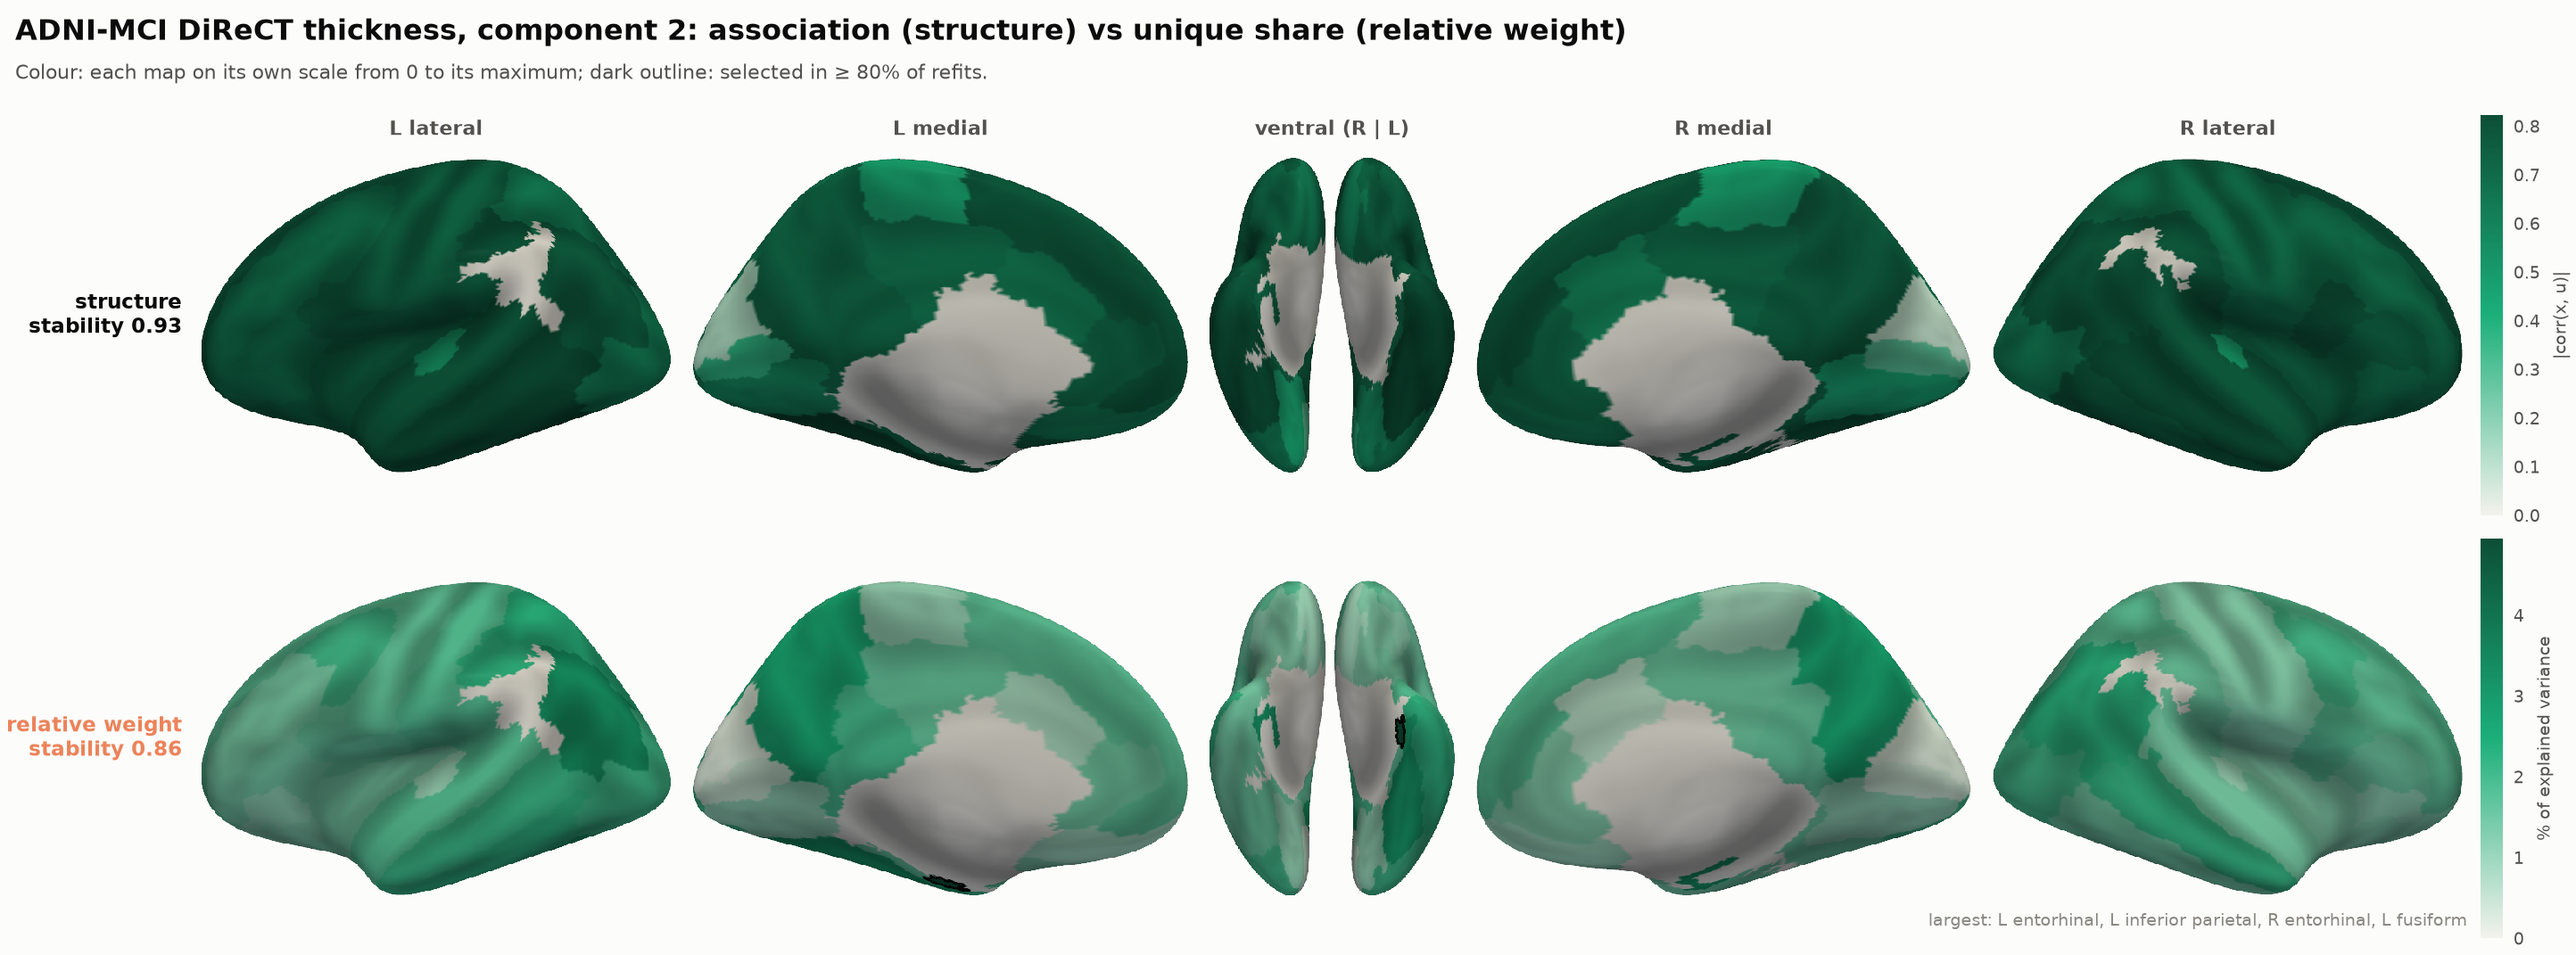
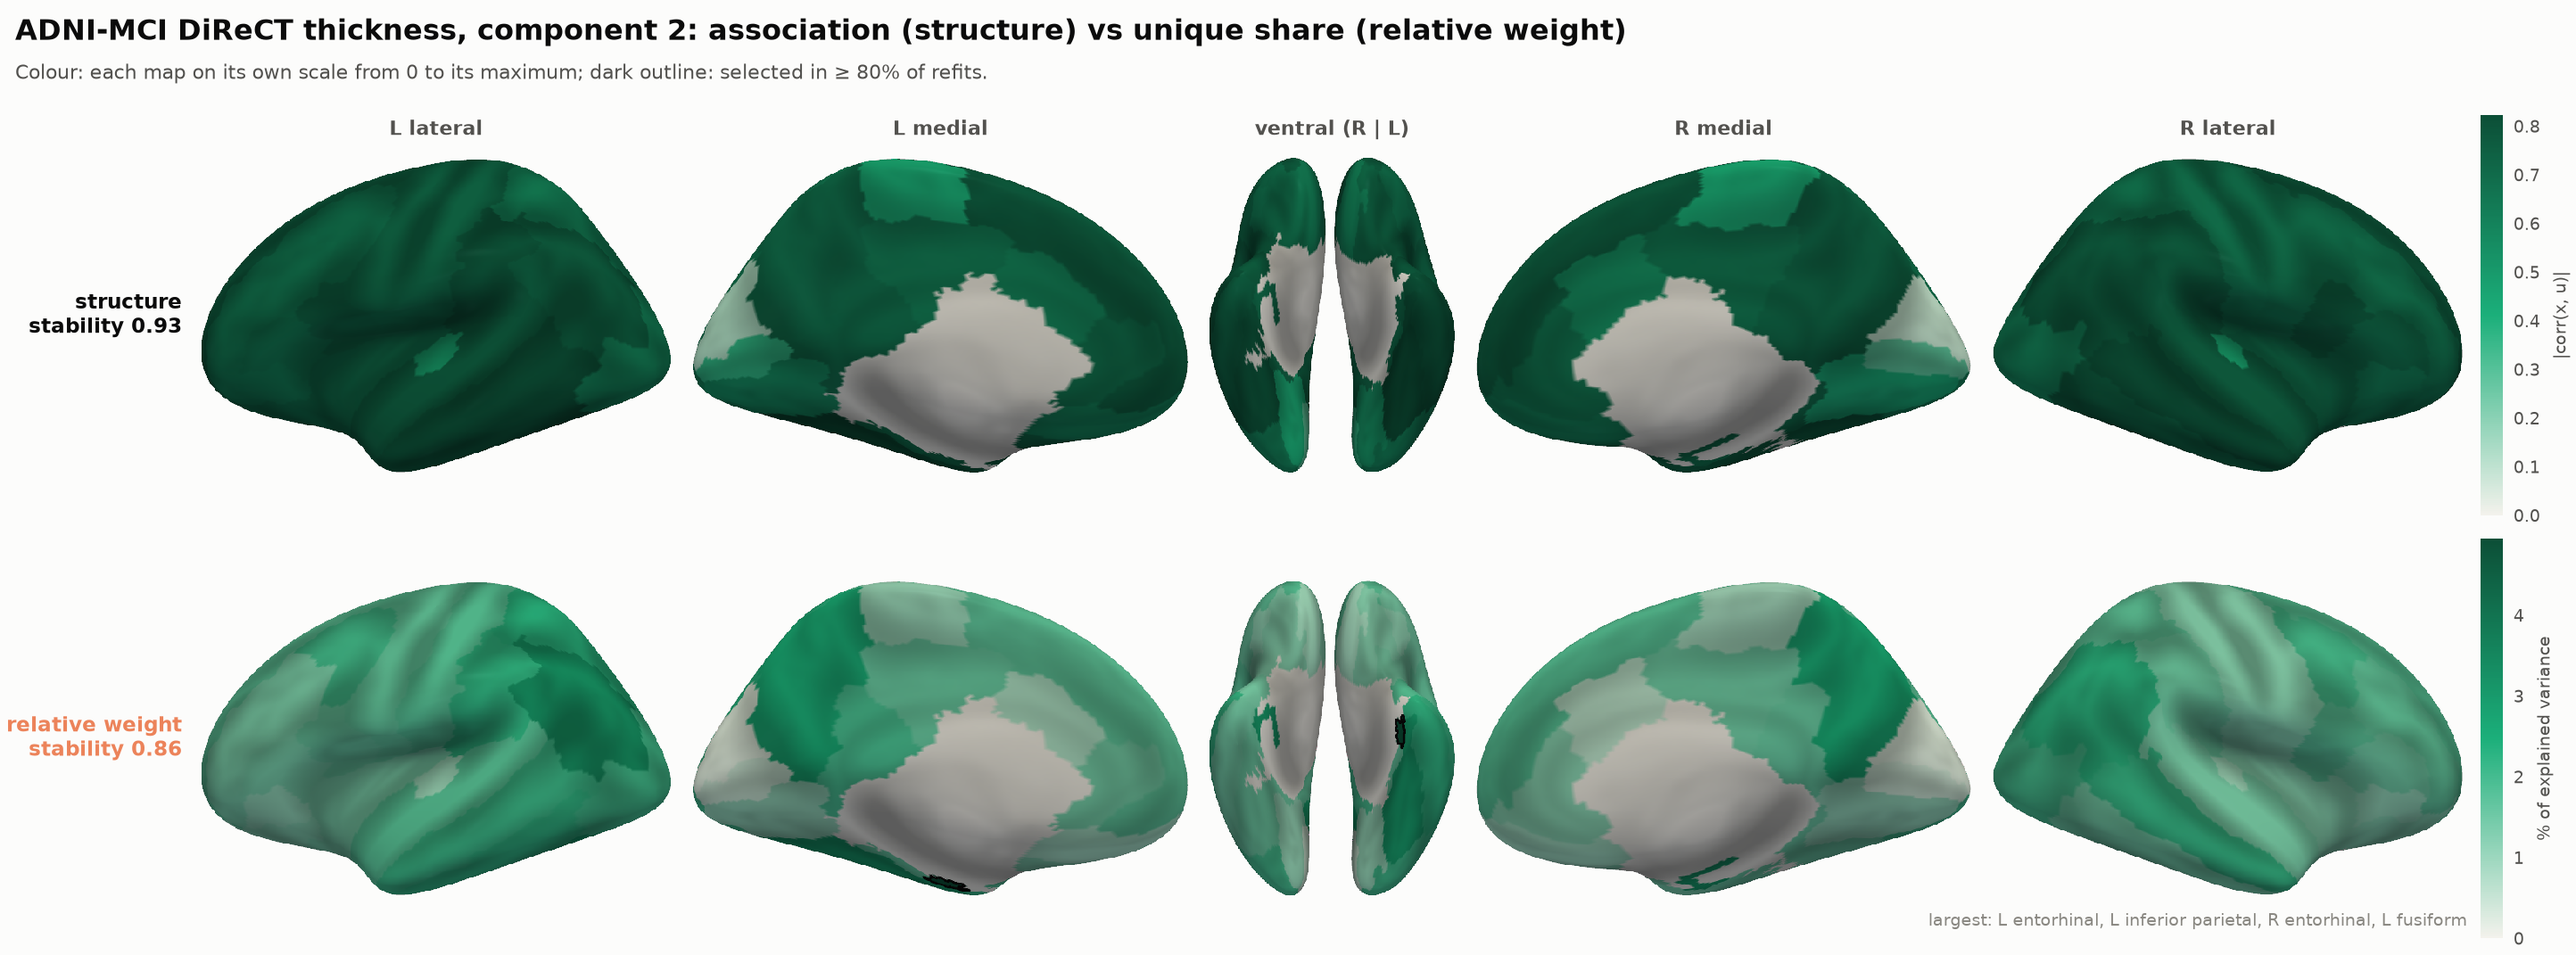
release: v0.14.0 — brain maps and feature tables via antsxviz, the ANTsX house renderer
- plot_brain_map / brain_rows / cortical_region_name: feature maps on the
  inflated fsaverage cortex drawn by antsxviz (optional extra 'viz',
  antsxviz>=0.1.1); plot_feature_map_grid now draws through
  antsxviz.region_table_figure (thin wrapper); both share feature_map_values.
- scripts/brain_region_maps.py is a thin antsxviz caller (~370 lines of
  duplicated GIFTI / label-transfer / render code removed).
- Includes D21 (alternative feature maps, relevance cutoff) and D22 (nc_abs,
  calibrated subset consensus) since v0.13.0.
- Palette-drift guard against antsxviz; ADNI figures re-rendered with the
  hole-free fsaverage annotation (antsxdata v0.4.0, Figshare).
- 1774 passed, 3 xfailed; antsxqc.lint 0 findings. Tracking doc updated.

diff --git a/tests/test_brain_maps.py b/tests/test_brain_maps.py
@@ -82,3 +82,15 @@ def test_plot_brain_map_end_to_end():
     texts = " ".join(t.get_text() for t in fig.texts)
     assert "csftissues" in texts                                # the non-cortical feature is named, not hidden
     plt.close(fig)
+
+
+def test_palette_matches_antsxviz():
+    """pysimlr keeps its own palette (core install has no antsxviz); it must not drift from
+    the house renderer's, or a table and a brain from the same fit would differ in colour."""
+    av = pytest.importorskip("antsxviz")
+    import antsxviz.style as st
+    from pysimlr.plotting import VIEW_COLORS, map_colormap
+    assert list(VIEW_COLORS) == list(st.VIEW_COLORS)
+    x = np.linspace(0, 1, 21)
+    for v in range(len(VIEW_COLORS)):
+        assert np.allclose([map_colormap(v)(t) for t in x], [av.map_colormap(v)(t) for t in x], atol=0)

diff --git a/src/pysimlr/__init__.py b/src/pysimlr/__init__.py
@@ -13,7 +13,7 @@ import os
 import sys
 from typing import Any
 
-__version__ = "0.13.0"
+__version__ = "0.14.0"
 
 
 def _configure_matplotlib_backend() -> None:

diff --git a/docs/tracking.md b/docs/tracking.md
@@ -1,5 +1,5 @@
 # Tracking Summary
-current phase: v0.13.0 + D21–D22 on `main`; D23 (antsxviz integration) on `feat/antsxviz-integration`.
+current phase: v0.14.0 released from `main` (antsxviz house renderer: plot_brain_map, plot_feature_map_grid via antsxviz; D21–D23).
 next WP: pin nsa_flow 3.6.0 once released; open finding in D17 (NSA-Flow failure on k = p narrow views at lr 0.3).
 blockers: none
 active work: none; the owner's paper and manuscript edits from `amigo` are set aside in `git stash` (stash@{0}), not applied
@@ -48,6 +48,11 @@ status: done (branch `feat/antsxviz-integration`)
 - **Found and reported, not fixed (external):** antsxviz's fsaverage annotation leaves lateral
   parietal holes (1055 / 520 vertices; `max_hole=400`), which render grey in lateral views. See
   `docs/change_requests/antsxviz.md`.
+- **Release v0.14.0:** the `viz` extra requires `antsxviz>=0.1.1`. That version fills the lateral
+  parietal holes (91.6% of vertices labelled) and fetches its annotation through antsxdata
+  v0.4.0 (Figshare 10.6084/m9.figshare.34917999). `test_palette_matches_antsxviz` guards
+  pysimlr's palette against drift. ADNI figures were re-rendered and inspected; the holes are
+  gone. Full suite: 1774 passed, 3 xfailed; `antsxqc.lint` 0 findings.
 - **Tests:** `tests/test_brain_maps.py`, 4 tests: name mapping; the adapter against a stand-in
   antsxviz; the missing-extra ImportError; and an end-to-end render, skipped without
   antsxviz/assets, 3.4 s.
